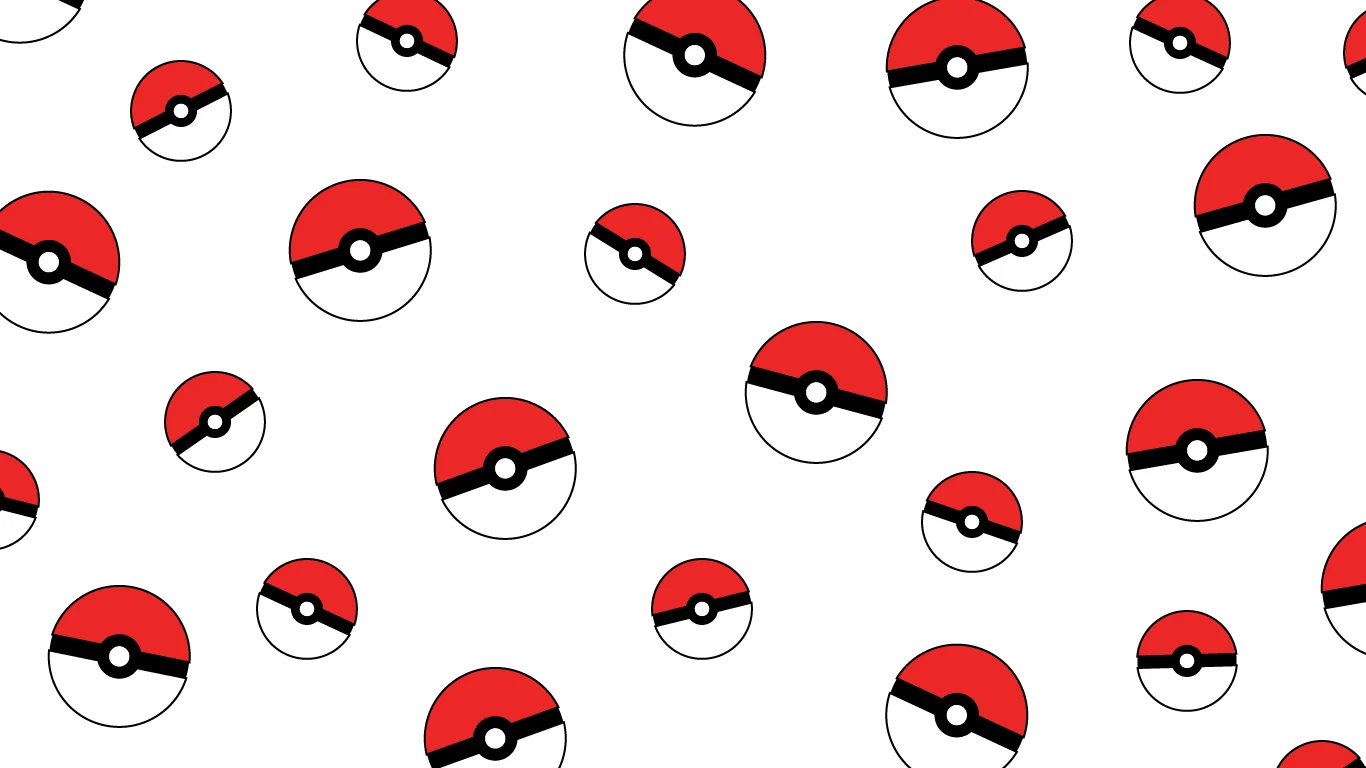
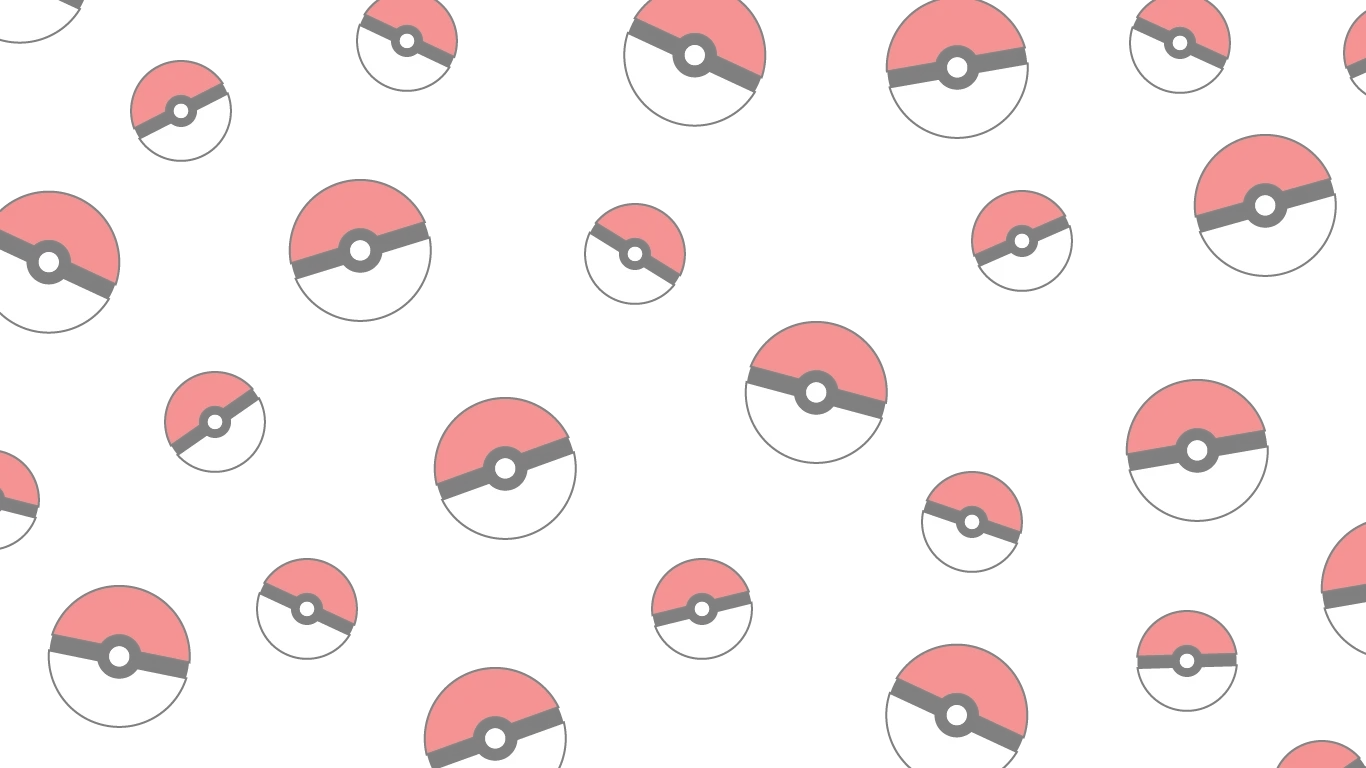
dark/light mode added

diff --git a/src/App.jsx b/src/App.jsx
@@ -5,42 +5,54 @@ import PokemonPage from './views/PokemonPage'
 import Topbar from './components/Topbar/Topbar'
 import Commands from './components/Commands/Commands'
 import { PokemonProvider } from './context/PokemonProvider'
+import { createContext, useState } from 'react'
+
+export const ThemeContext = createContext(null);
 
 function App() {
+  const [theme, setTheme] = useState("light");
+
+  const toggleTheme = () => {
+    setTheme((currentTheme) => (currentTheme === "dark" ? "light" : "dark"));
+  };
 
   return (
     <>
-      <PokemonProvider>
-        <div className="pokedex">
-          <Topbar></Topbar>
-          <div className='pokedex__area'>
-            <div className="pokedex__screen">
-              <Routes>
-                <Route path='/' element={<Home />} />
-                <Route path='pokemon/:id' element={<PokemonPage/>}/>
-                <Route path='*' element={<Navigate to='/' />} />
-              </Routes>
-            </div>
-            <div className="pokedex__console">
-              <div className="decoration decoration--black decoration--black--big">
-                  <p>La Pokédex es una enciclopedia electrónica que registra información acerca de los Pokémon. Este dispositivo registra datos cuando capturas un Pokémon y muestra su imagen y detalles.</p>
-              </div>
-              <Commands/>
-              <div className='decoration__row--special'>
-                  <div className='decoration__row'>
-                      <div className="decoration decoration--white"></div>
-                      <div className="decoration decoration--white"></div>
+      <ThemeContext.Provider value={{ theme, toggleTheme }}>
+        <PokemonProvider>
+          <div className="main" data-theme={theme}> 
+            <div className="pokedex">
+              <Topbar></Topbar>
+              <div className='pokedex__area'>
+                <div className="pokedex__screen ">
+                  <Routes>
+                    <Route path='/' element={<Home />} />
+                    <Route path='pokemon/:id' element={<PokemonPage/>}/>
+                    <Route path='*' element={<Navigate to='/' />} />
+                  </Routes>
+                </div>
+                <div className="pokedex__console">
+                  <div className="decoration decoration--black decoration--black--big">
+                      <p>La Pokédex es una enciclopedia electrónica que registra información acerca de los Pokémon. Este dispositivo registra datos cuando capturas un Pokémon y muestra su imagen y detalles.</p>
                   </div>
-                  <div className="decoration decoration--yellow"></div>
-              </div>
-              <div className='decoration__row'>
-                  <div className="decoration decoration--black"></div>
-                  <div className="decoration decoration--black"></div>
+                  <Commands theme={toggleTheme}/>
+                  <div className='decoration__row--special'>
+                      <div className='decoration__row'>
+                          <div className="decoration decoration--white"></div>
+                          <div className="decoration decoration--white"></div>
+                      </div>
+                      <div className="decoration decoration--yellow"></div>
+                  </div>
+                  <div className='decoration__row'>
+                      <div className="decoration decoration--black"></div>
+                      <div className="decoration decoration--black"></div>
+                  </div>
+                </div>
               </div>
             </div>
-          </div>
-        </div>
-      </PokemonProvider>
+          </div> 
+        </PokemonProvider>
+      </ThemeContext.Provider>
     </>
   )
 }

diff --git a/src/globalStyles/_layout.scss b/src/globalStyles/_layout.scss
@@ -1,5 +1,16 @@
 @import '/src/globalStyles/tools';
 
+.main {
+    background-color: var(--bg-color-theme);
+    color: var(--color-text);
+    width: 100vw;
+    background-repeat: no-repeat;
+    background-position: center;
+    background-size: cover;
+    transition: all 0.3s ease-in-out;
+    overflow: hidden;
+}
+
 .pokedex {
     display: flex;
     flex-direction: column;
@@ -20,13 +31,14 @@
         width: 100%;
         padding-top: 11.5rem;
         padding-bottom: 11rem;
+        overflow: scroll;
 
         @include MQ ($desktop) {
             display: grid;
             grid-template-columns: 1fr 1fr;
             overflow: hidden;
             padding: 0;
-            max-height: 70vh;
+            max-height: 50rem;
             border-bottom: 1px solid var(--color-border-delineation);
             border-left: 1px solid var(--color-border-delineation);
             border-right: 1px solid var(--color-border-delineation);
@@ -39,7 +51,6 @@
         grid-template-columns: repeat(2, 1fr);
         padding: var(--unit-16);
         gap: var(--unit-16);
-        transition: all 2s ease-in-out;
 
         @include MQ ($tablet) {
             grid-template-columns: repeat(4, 1fr);
@@ -56,6 +67,10 @@
             display: grid;
             gap: var(--unit-16);
             padding: var(--unit-16);
+
+            .pagination--loadMore {
+                grid-column: inherit;
+            }
         }
 
         &:has(.pokemonView) {

diff --git a/src/components/PokemonView/PokemonView.jsx b/src/components/PokemonView/PokemonView.jsx
@@ -48,7 +48,7 @@ export default function PokemonView () {
                     </div>
                     <div className="pokemonView__row">
                         <p className='title'>Base experience:</p>
-                        <p>{pokemon.base_experience}</p>
+                        <p>{pokemon.base_experience} pt</p>
                     </div>
                     <div className="pokemonView__row">
                         <p className='title'>Weight:</p>
@@ -59,7 +59,7 @@ export default function PokemonView () {
                         {pokemon.abilities && (
                             <div>
                                 {pokemon.abilities.map((ability) => (
-                                    <p className='txt-align--right' key={ability.ability.name}>{ability.ability.name}</p>
+                                    <p className='txt-align--right capitalize' key={ability.ability.name}>{ability.ability.name}</p>
                                 ))}
                             </div>
                         )}

diff --git a/src/components/Commands/Commands.jsx b/src/components/Commands/Commands.jsx
@@ -3,18 +3,19 @@ import Button from '../Atoms/Button/Button';
 import './Commands.scss';
 
 export default function Commands (props) {
+
     return (
         <>
             <div>
                 <div className='flex'>
                     <Link className='btn border-radius--1' to='/'>Home</Link>
                     <Button style="btn" txt="Grid"></Button>
-                    <Button style="btn border-radius--2" txt="Light Mode"></Button>
+                    <Button style="btn border-radius--2" txt="Light Mode" click={props.theme}></Button>
                 </div>
                 <div className='flex'>
                     <Button style="btn border-radius--3" txt="Favorites"></Button>
                     <Button style="btn" txt="List"></Button>
-                    <Button style="btn border-radius--4" txt="Dark Mode"></Button>
+                    <Button style="btn border-radius--4" txt="Dark Mode" click={props.theme}></Button>
                 </div>
             </div>      
         </>

diff --git a/src/globalStyles/_utilities.scss b/src/globalStyles/_utilities.scss
@@ -6,10 +6,7 @@
         justify-content: center;
         align-items: center;
         height: 100vh;
-        background: url(/pokedex\ background_Mesa\ de\ trabajo\ 1.webp);
-        background-repeat: no-repeat;
-        background-position: center;
-        background-size: cover;
+        width: 100%;
     }
 }
 

diff --git a/src/components/PokemonCard/PokemonCard.scss b/src/components/PokemonCard/PokemonCard.scss
@@ -49,7 +49,8 @@
 
         .pokemon-card__img {
             order: 1;
-            width: 12rem;
+            width: 100%;
+            max-width: 6rem;
         }
 
         .pokemon-card__identifiers {

diff --git a/index.html b/index.html
@@ -1,5 +1,5 @@
 <!DOCTYPE html>
-<html lang="en" data-theme="light">
+<html lang="en">
   <head>
     <meta charset="UTF-8" />
     <link rel="icon" type="image/svg+xml" href="/pokedex-camera.svg" />

diff --git a/src/components/PokemonCard/PokemonCard.jsx b/src/components/PokemonCard/PokemonCard.jsx
@@ -5,6 +5,7 @@ import './PokemonCard.scss';
 
 
 export default function PokemonCard ({pokemon}) {
+
     return (
         <>
             <div className="pokemon-card ">

diff --git a/README.md b/README.md
@@ -6,3 +6,9 @@ Typography:
 I usually calculate more styles for all the h tags, but for this project, as I'm not going to need it and it is not planned to escalate I only going to use two styles which are titles and text.
 
 https://developer.mozilla.org/en-US/docs/Learn/CSS/Building_blocks/Overflowing_content
+
+
+theme mode creation:
+https://www.youtube.com/watch?v=VzF2iTTc0MA
+https://betterprogramming.pub/a-complete-guide-to-implementing-dark-mode-in-react-47af893b22eb
+https://dev.to/whitep4nth3r/the-best-lightdark-mode-theme-toggle-in-javascript-368f
